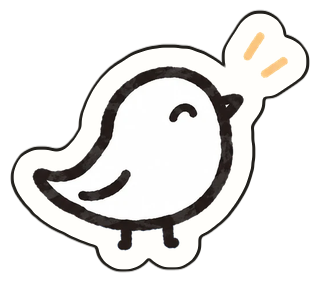
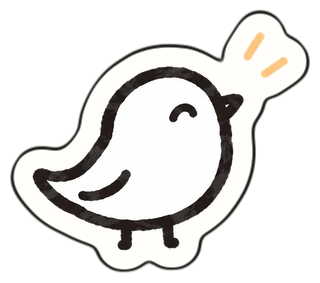
Re-border existing stickers; cache-bust file URLs by mtime; bubble keeps its drawn height; labels never break inside a phrase

diff --git a/src/components/sketch/index.tsx b/src/components/sketch/index.tsx
@@ -258,11 +258,11 @@ export function SketchTextarea({ seed, className = "", ...rest }: { seed?: strin
  * foot = source px from the body's bottom line to the tail tip.
  */
 const BUBBLES = [
-  { src: "/ui/bubbles/b1.png", tip: 77, slice: [95, 115, 110, 175], foot: 50 },
-  { src: "/ui/bubbles/b2.png", tip: 90, slice: [100, 130, 105, 150], foot: 40 },
-  { src: "/ui/bubbles/b3.png", tip: 94, slice: [80, 100, 100, 150], foot: 62 },
-  { src: "/ui/bubbles/b4.png", tip: 38, slice: [60, 60, 85, 110], foot: 53 },
-  { src: "/ui/bubbles/b6.png", tip: 106, slice: [60, 70, 110, 160], foot: 70 },
+  { src: "/ui/bubbles/b1.png", h: 292, tip: 77, slice: [95, 115, 110, 175], foot: 50 },
+  { src: "/ui/bubbles/b2.png", h: 309, tip: 90, slice: [100, 130, 105, 150], foot: 40 },
+  { src: "/ui/bubbles/b3.png", h: 252, tip: 94, slice: [80, 100, 100, 150], foot: 62 },
+  { src: "/ui/bubbles/b4.png", h: 268, tip: 38, slice: [60, 60, 85, 110], foot: 53 },
+  { src: "/ui/bubbles/b6.png", h: 302, tip: 106, slice: [60, 70, 110, 160], foot: 70 },
 ] as const;
 const BUBBLE_SCALE = 1 / 3.4;
 const EDGE_PAD = 26 * BUBBLE_SCALE + 8;
@@ -290,8 +290,9 @@ export function SketchBubble({
   const len = text.length;
   const b = len <= 9 ? BUBBLES[0] : len <= 16 ? BUBBLES[3] : BUBBLES[hashSeed(seed ?? text) % 2 === 0 ? 4 : 1];
   const [t, r, bt, l] = b.slice.map((v) => Math.round(v * BUBBLE_SCALE));
+  // Never shorter than the drawing itself: squeezed, the curved sides lose their middle and kink.
   return (
-    <div className={`relative isolate w-fit ${className}`} style={{ minHeight: t + bt, minWidth: l + r + 12, ...(tipAtStart ? { width: "max-content", marginLeft: -Math.round(b.tip * BUBBLE_SCALE) } : null), ...style }}>
+    <div className={`relative isolate flex w-fit items-center ${className}`} style={{ minHeight: Math.round(b.h * BUBBLE_SCALE), minWidth: l + r + 12, ...(tipAtStart ? { width: "max-content", marginLeft: -Math.round(b.tip * BUBBLE_SCALE) } : null), ...style }}>
       <span
         aria-hidden
         className="pointer-events-none absolute inset-0 -z-10 box-border"

diff --git a/src/lib/server/repo/local.ts b/src/lib/server/repo/local.ts
@@ -1,5 +1,6 @@
 import "server-only";
 
+import { statSync } from "node:fs";
 import { mkdir, readFile, rename, writeFile } from "node:fs/promises";
 import path from "node:path";
 
@@ -145,11 +146,11 @@ export class LocalStore implements Store {
   }
 
   async fileUrl(p: string): Promise<string> {
-    return `/api/files/${p}`;
+    return versionedUrl(p);
   }
 
   async fileUrls(paths: string[]): Promise<Map<string, string>> {
-    return new Map(paths.map((p) => [p, `/api/files/${p}`]));
+    return new Map(paths.map((p) => [p, versionedUrl(p)]));
   }
 
   static async readFile(p: string): Promise<Buffer | null> {
@@ -158,5 +159,14 @@ export class LocalStore implements Store {
     } catch {
       return null;
     }
+  }
+}
+
+/** Files are served as immutable; the mtime in the URL makes a rewritten file (e.g. a new border) load fresh. */
+function versionedUrl(p: string): string {
+  try {
+    return `/api/files/${p}?v=${Math.floor(statSync(safePath(p)).mtimeMs).toString(36)}`;
+  } catch {
+    return `/api/files/${p}`;
   }
 }

diff --git a/src/components/notebook/Notebook.tsx b/src/components/notebook/Notebook.tsx
@@ -253,7 +253,7 @@ export function Notebook({
                 lift={lifted}
                 className={`pointer-events-none mx-auto ${s.tape ? "w-full opacity-90" : "w-auto"} ${s.deco && !s.tape ? "max-h-[26cqw]" : s.tape ? "" : "max-h-[36cqw]"} ${isSelected ? "rounded-xl outline-2 outline-sky-deep outline-offset-2 outline-dashed" : ""}`}
               />
-              {s.label && <span className="pointer-events-none mt-0.5 block text-center font-hand text-[14px] leading-tight text-ink-soft"><Wrap>{s.label}</Wrap></span>}
+              {s.label && <span className="pointer-events-none relative left-1/2 mt-0.5 block w-max max-w-[min(150%,10em)] -translate-x-1/2 text-center font-hand text-[14px] leading-tight text-ink-soft"><Wrap>{s.label}</Wrap></span>}
               {isSelected && (
                 <div
                   className="absolute -top-10 left-1/2 flex -translate-x-1/2 gap-1.5"

diff --git a/src/components/notebook/StickerBox.tsx b/src/components/notebook/StickerBox.tsx
@@ -113,7 +113,7 @@ export function StickerBox({ stickers, stuck, onPick }: { stickers: Sticker[]; s
                     <span className="flex h-24 w-full items-center justify-center">
                       <StickerView src={st.imageUrl} alt={st.label} rotation={st.rotation} className="max-h-24 w-auto" />
                     </span>
-                    <span className="mt-1 w-full text-[14px] leading-snug"><Wrap>{st.label}</Wrap></span>
+                    <span className="mt-1 w-max max-w-[calc(100%+12px)] text-[14px] leading-snug"><Wrap>{st.label}</Wrap></span>
                   </button>
                 </li>
               ))}

diff --git a/src/app/globals.css b/src/app/globals.css
@@ -124,10 +124,10 @@
 }
 
 @layer components {
-  /* <Wrap>: break only at the <wbr> between phrases; a phrase wider than the box still breaks. */
+  /* <Wrap>: break only at the <wbr> between phrases, never inside one (a long phrase may stick out a little instead). */
   .wrap-phrase {
     word-break: keep-all;
-    overflow-wrap: anywhere;
+    overflow-wrap: normal;
   }
 
   /* Hand-drawn buttons (SketchButton): tilt a little on hover, sink on press. */

diff --git a/scripts/deco/reborder.py b/scripts/deco/reborder.py
@@ -1,0 +1,84 @@
+"""Give stickers that were cut before the new border the new one too.
+
+Only the finished PNG was kept, so the object is recovered from it: measure how
+wide the old white border is, shave that much off the outline, then die-cut
+again (scripts/deco/diecut.py, same look as render.ts).
+
+    python3 scripts/deco/reborder.py --measure     # just report widths
+    python3 scripts/deco/reborder.py               # rewrite .data/files/<image_path>
+Back up .data/files first (done once: .data/files-before-reborder).
+"""
+import json
+import sys
+from pathlib import Path
+
+import numpy as np
+from PIL import Image
+from scipy import ndimage
+
+from diecut import die_cut
+
+ROOT = Path(__file__).resolve().parents[2]
+FILES = ROOT / ".data/files"
+SRC = ROOT / ".data/files-before-reborder"   # always rebuild from the originals
+STICKER_MAX = 520
+
+
+def old_border(px: np.ndarray) -> int:
+    """Width of the old white border + ink, measured from the outside in."""
+    alpha = px[..., 3] > 128
+    dist = ndimage.distance_transform_edt(alpha)
+    rgb = px[..., :3].astype(int)
+    whiteish = (rgb.min(-1) > 225) & (rgb.max(-1) - rgb.min(-1) < 20)
+    width = 0
+    for d in range(1, 60):
+        ring = (dist > d - 1) & (dist <= d)
+        if ring.sum() < 20:
+            break
+        frac = whiteish[ring].mean()
+        if d > 5 and frac < 0.75:
+            break
+        width = d
+    return width
+
+
+def rebuild(path_in: Path, path_out: Path, seed: str) -> tuple[int, tuple[int, int]]:
+    im = Image.open(path_in).convert("RGBA")
+    px = np.array(im)
+    bw = old_border(px)
+    alpha = px[..., 3] > 128
+    # Shave the old border off (leave 1px: a sliver of white just merges into the new one).
+    obj_mask = ndimage.distance_transform_edt(alpha) > max(0, bw - 1)
+    obj_mask = ndimage.binary_opening(obj_mask, iterations=1)
+    if obj_mask.sum() < 50:
+        return bw, im.size
+    ys, xs = np.where(obj_mask)
+    box = (xs.min(), ys.min(), xs.max() + 1, ys.max() + 1)
+    soft = ndimage.gaussian_filter(obj_mask.astype(float), 0.7)
+    opx = px.copy()
+    opx[..., 3] = (np.clip(soft * 1.6 - 0.3, 0, 1) * 255).astype(np.uint8)
+    obj = Image.fromarray(opx).crop(box)
+    sil = obj_mask[box[1]:box[3], box[0]:box[2]]
+    # Same scale as a fresh sticker: border sizes are in the PNG's own pixels.
+    out = die_cut(obj, sil, 30, 14, 2.6, seed, grain=True)
+    if max(out.size) > STICKER_MAX + 60:
+        k = STICKER_MAX / max(out.size)
+        out = out.resize((round(out.width * k), round(out.height * k)), Image.LANCZOS)
+    out.save(path_out, optimize=True)
+    return bw, out.size
+
+
+if __name__ == "__main__":
+    db = json.loads((ROOT / ".data/db.json").read_text())
+    paths = sorted({s["image_path"] for s in db["stickers"] if s.get("image_path")})
+    measure = "--measure" in sys.argv
+    for p in paths:
+        src = SRC / p
+        if not src.exists():
+            print("missing", p)
+            continue
+        if measure:
+            print(old_border(np.array(Image.open(src).convert("RGBA"))), Image.open(src).size, p[-40:])
+        else:
+            bw, size = rebuild(src, FILES / p, p)
+            print(bw, size, p[-40:])

diff --git a/scripts/deco/bird-stickers.py b/scripts/deco/bird-stickers.py
@@ -6,12 +6,13 @@ sticker, a thin ink line around it.
     python3 scripts/deco/bird-stickers.py
 """
 import math
-import random
 from pathlib import Path
 
 import numpy as np
 from PIL import Image
 from scipy import ndimage
+
+from diecut import die_cut
 
 ROOT = Path(__file__).resolve().parents[2]
 POSES = ["back", "flap", "front", "happy", "hop", "perch", "side", "sleepy", "surprise", "walk"]
@@ -22,12 +23,6 @@ BORDER = 30 * K
 ROUND = 14 * K
 INK_EDGE = 2.4
 PAD = math.ceil(BORDER + ROUND + INK_EDGE + 2)
-INK = (0x22, 0x20, 0x1C)
-PAPER = (0xFF, 0xFE, 0xFB)
-
-
-def ramp(a, lo=96, hi=132):
-    return np.clip((a - lo) / (hi - lo), 0, 1)
 
 
 def build(pose: str) -> Image.Image:
@@ -46,35 +41,7 @@ def build(pose: str) -> Image.Image:
     inner = SIZE - PAD * 2
     s = inner / max(src.size)
     src = src.resize((max(1, round(src.width * s)), max(1, round(src.height * s))), Image.LANCZOS)
-    W, H = src.width + PAD * 2, src.height + PAD * 2
-
-    sil = np.zeros((H, W), bool)
-    sil[PAD:PAD + src.height, PAD:PAD + src.width] = np.array(src.getchannel("A")) > 12
-    # Grow by the border width (exact disc), then blur and cut again → rounded outline.
-    grown = ndimage.distance_transform_edt(~sil) <= BORDER
-    blurred = ndimage.gaussian_filter(grown.astype(float) * 255, ROUND * 0.6 / 2)
-    shape = ramp(blurred)
-
-    # Ink: the shape pushed out by INK_EDGE with a slight hand wobble.
-    rng = random.Random(pose)
-    phase = rng.random() * math.tau
-    ink = np.zeros_like(shape)
-    for a in range(0, 360, 6):
-        r = math.radians(a)
-        rr = INK_EDGE + 0.9 * K * math.sin(r * 3 + phase) + 0.45 * K * math.sin(r * 7 + phase * 2)
-        ink = np.maximum(ink, ndimage.shift(shape, (math.sin(r) * rr, math.cos(r) * rr), order=1))
-
-    out = np.zeros((H, W, 4), float)
-    out[..., :3] = INK
-    out[..., 3] = ink
-    # White over ink.
-    a = shape[..., None]
-    out[..., :3] = out[..., :3] * (1 - a) + np.array(PAPER) * a
-    out[..., 3] = np.maximum(out[..., 3], shape)
-    img = Image.fromarray((out * [1, 1, 1, 255]).round().astype(np.uint8))
-    img.alpha_composite(src, (PAD, PAD))
-    return img
-
+    return die_cut(src, np.array(src.getchannel("A")) > 12, BORDER, ROUND, INK_EDGE, pose)
 
 if __name__ == "__main__":
     for p in POSES:

diff --git a/scripts/deco/diecut.py b/scripts/deco/diecut.py
@@ -1,0 +1,48 @@
+"""Die-cut border shared by the offline scripts — same look as
+src/lib/sticker/render.ts: a thick white border rounded off like a real
+sticker, a thin wobbly ink line, faint paper grain."""
+import math
+import random
+
+import numpy as np
+from PIL import Image
+from scipy import ndimage
+
+INK = (0x22, 0x20, 0x1C)
+PAPER = (0xFF, 0xFE, 0xFB)
+
+
+def die_cut(obj: Image.Image, silhouette: np.ndarray, border: float, round_: float, ink_edge: float, seed: str, grain: bool = False) -> Image.Image:
+    """`obj` RGBA (the thing itself), `silhouette` bool mask of the same size."""
+    pad = math.ceil(border + round_ + ink_edge + 2)
+    W, H = obj.width + pad * 2, obj.height + pad * 2
+    sil = np.zeros((H, W), bool)
+    sil[pad:pad + obj.height, pad:pad + obj.width] = silhouette
+    grown = ndimage.distance_transform_edt(~sil) <= border
+    blurred = ndimage.gaussian_filter(grown.astype(float) * 255, round_ * 0.6)
+    shape = np.clip((blurred - 96) / (132 - 96), 0, 1)
+
+    rng = random.Random(seed)
+    phase = rng.random() * math.tau
+    k = border / 30
+    ink = np.zeros_like(shape)
+    for a in range(0, 360, 6):
+        r = math.radians(a)
+        rr = ink_edge + 0.9 * k * math.sin(r * 3 + phase) + 0.45 * k * math.sin(r * 7 + phase * 2)
+        ink = np.maximum(ink, ndimage.shift(shape, (math.sin(r) * rr, math.cos(r) * rr), order=1))
+
+    out = np.zeros((H, W, 4), float)
+    out[..., :3] = INK
+    a = shape[..., None]
+    out[..., :3] = out[..., :3] * (1 - a) + np.array(PAPER) * a
+    out[..., 3] = np.maximum(ink, shape)
+    if grain:
+        nr = np.random.default_rng(abs(hash(seed)) % 2**32)
+        g = nr.random((H, W)) < (1 / 90)
+        tone = np.where(nr.random((H, W)) < 0.5, 0, 255)
+        amt = (0.035 + nr.random((H, W)) * 0.03)[..., None]
+        sel = (g & (shape > 0.5))[..., None]
+        out[..., :3] = np.where(sel, out[..., :3] * (1 - amt) + tone[..., None] * amt, out[..., :3])
+    img = Image.fromarray((out * [1, 1, 1, 255]).round().astype(np.uint8))
+    img.alpha_composite(obj, (pad, pad))
+    return img
